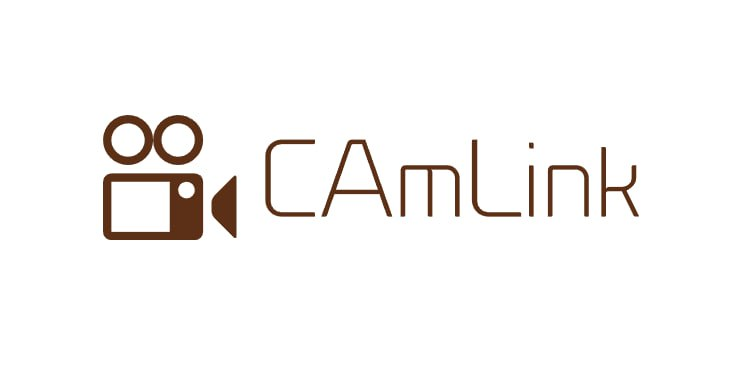
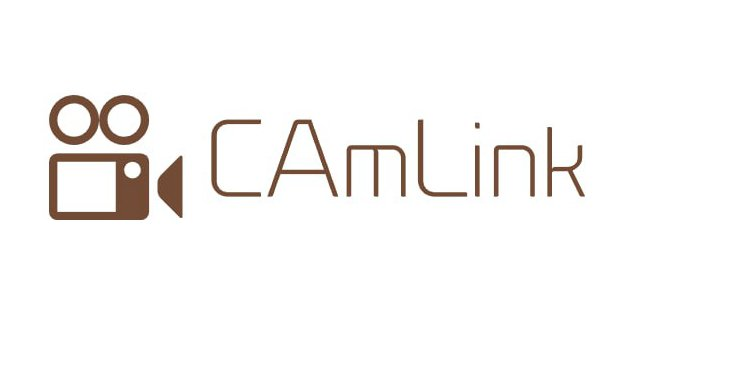
pics

Changed region(s): [[0.0621, 0.2328, 0.8691, 0.6402], [0.6208, 0.3201, 0.6518, 0.3492]]

diff --git a/src/Pages/Footer.jsx b/src/Pages/Footer.jsx
@@ -11,7 +11,7 @@ function Footer() {
           <img className='h-11 hover:scale-125 duration-300' src="./Images/telegram.jpg" alt="" />
         </div>
         <div>
-          <img className='h-11 hover:scale-125 duration-300 rounded-full' src="./Images/instagram.jpg" alt="" />
+          <img className='h-11 hover:scale-125 duration-300 rounded-full' src="./Images/instagram.png" alt="" />
         </div>
         <div>
           <img className='h-11 hover:scale-125 duration-300' src="./Images/github.jpg" alt="" />

diff --git a/src/Pages/About.jsx b/src/Pages/About.jsx
@@ -17,8 +17,8 @@ import 'aos/dist/aos.css';
 function About() {
 
   return (
-    <div className=' app flex flex-col justify-between gap-11 ml-[2rem]font-serif'>
-      <div className=' flex flex-row'>
+    <div className=' app flex flex-col justify-between gap-11 ml-[2rem]font-serif '>
+      <div className=' flex flex-row hover:transform scale-80'>
         <video src = {video} autoPlay loop className='w-30%'/>
         <div className='flex flex-col gap-[3rem]'>
         <h2 className='text-4xl'>About CamLink</h2> 

diff --git a/src/Pages/Header.jsx b/src/Pages/Header.jsx
@@ -31,7 +31,7 @@ function Header() {
     <div className='text-center p-5 flex justify-between'>
       <div>
         <Link to='/'>
-          <img className='h-[5rem] hover:scale-110 duration-300 rounded-[30px]' src="./Images/camlink.jpg" alt="" />
+          <img className='h-[2rem] w-[12rem] hover:scale-110 duration-300  ' src="./Images/camlink.png" alt="" />
         </Link>
       </div>
       <div className='flex space-x-4 text-[1.2rem]'>
